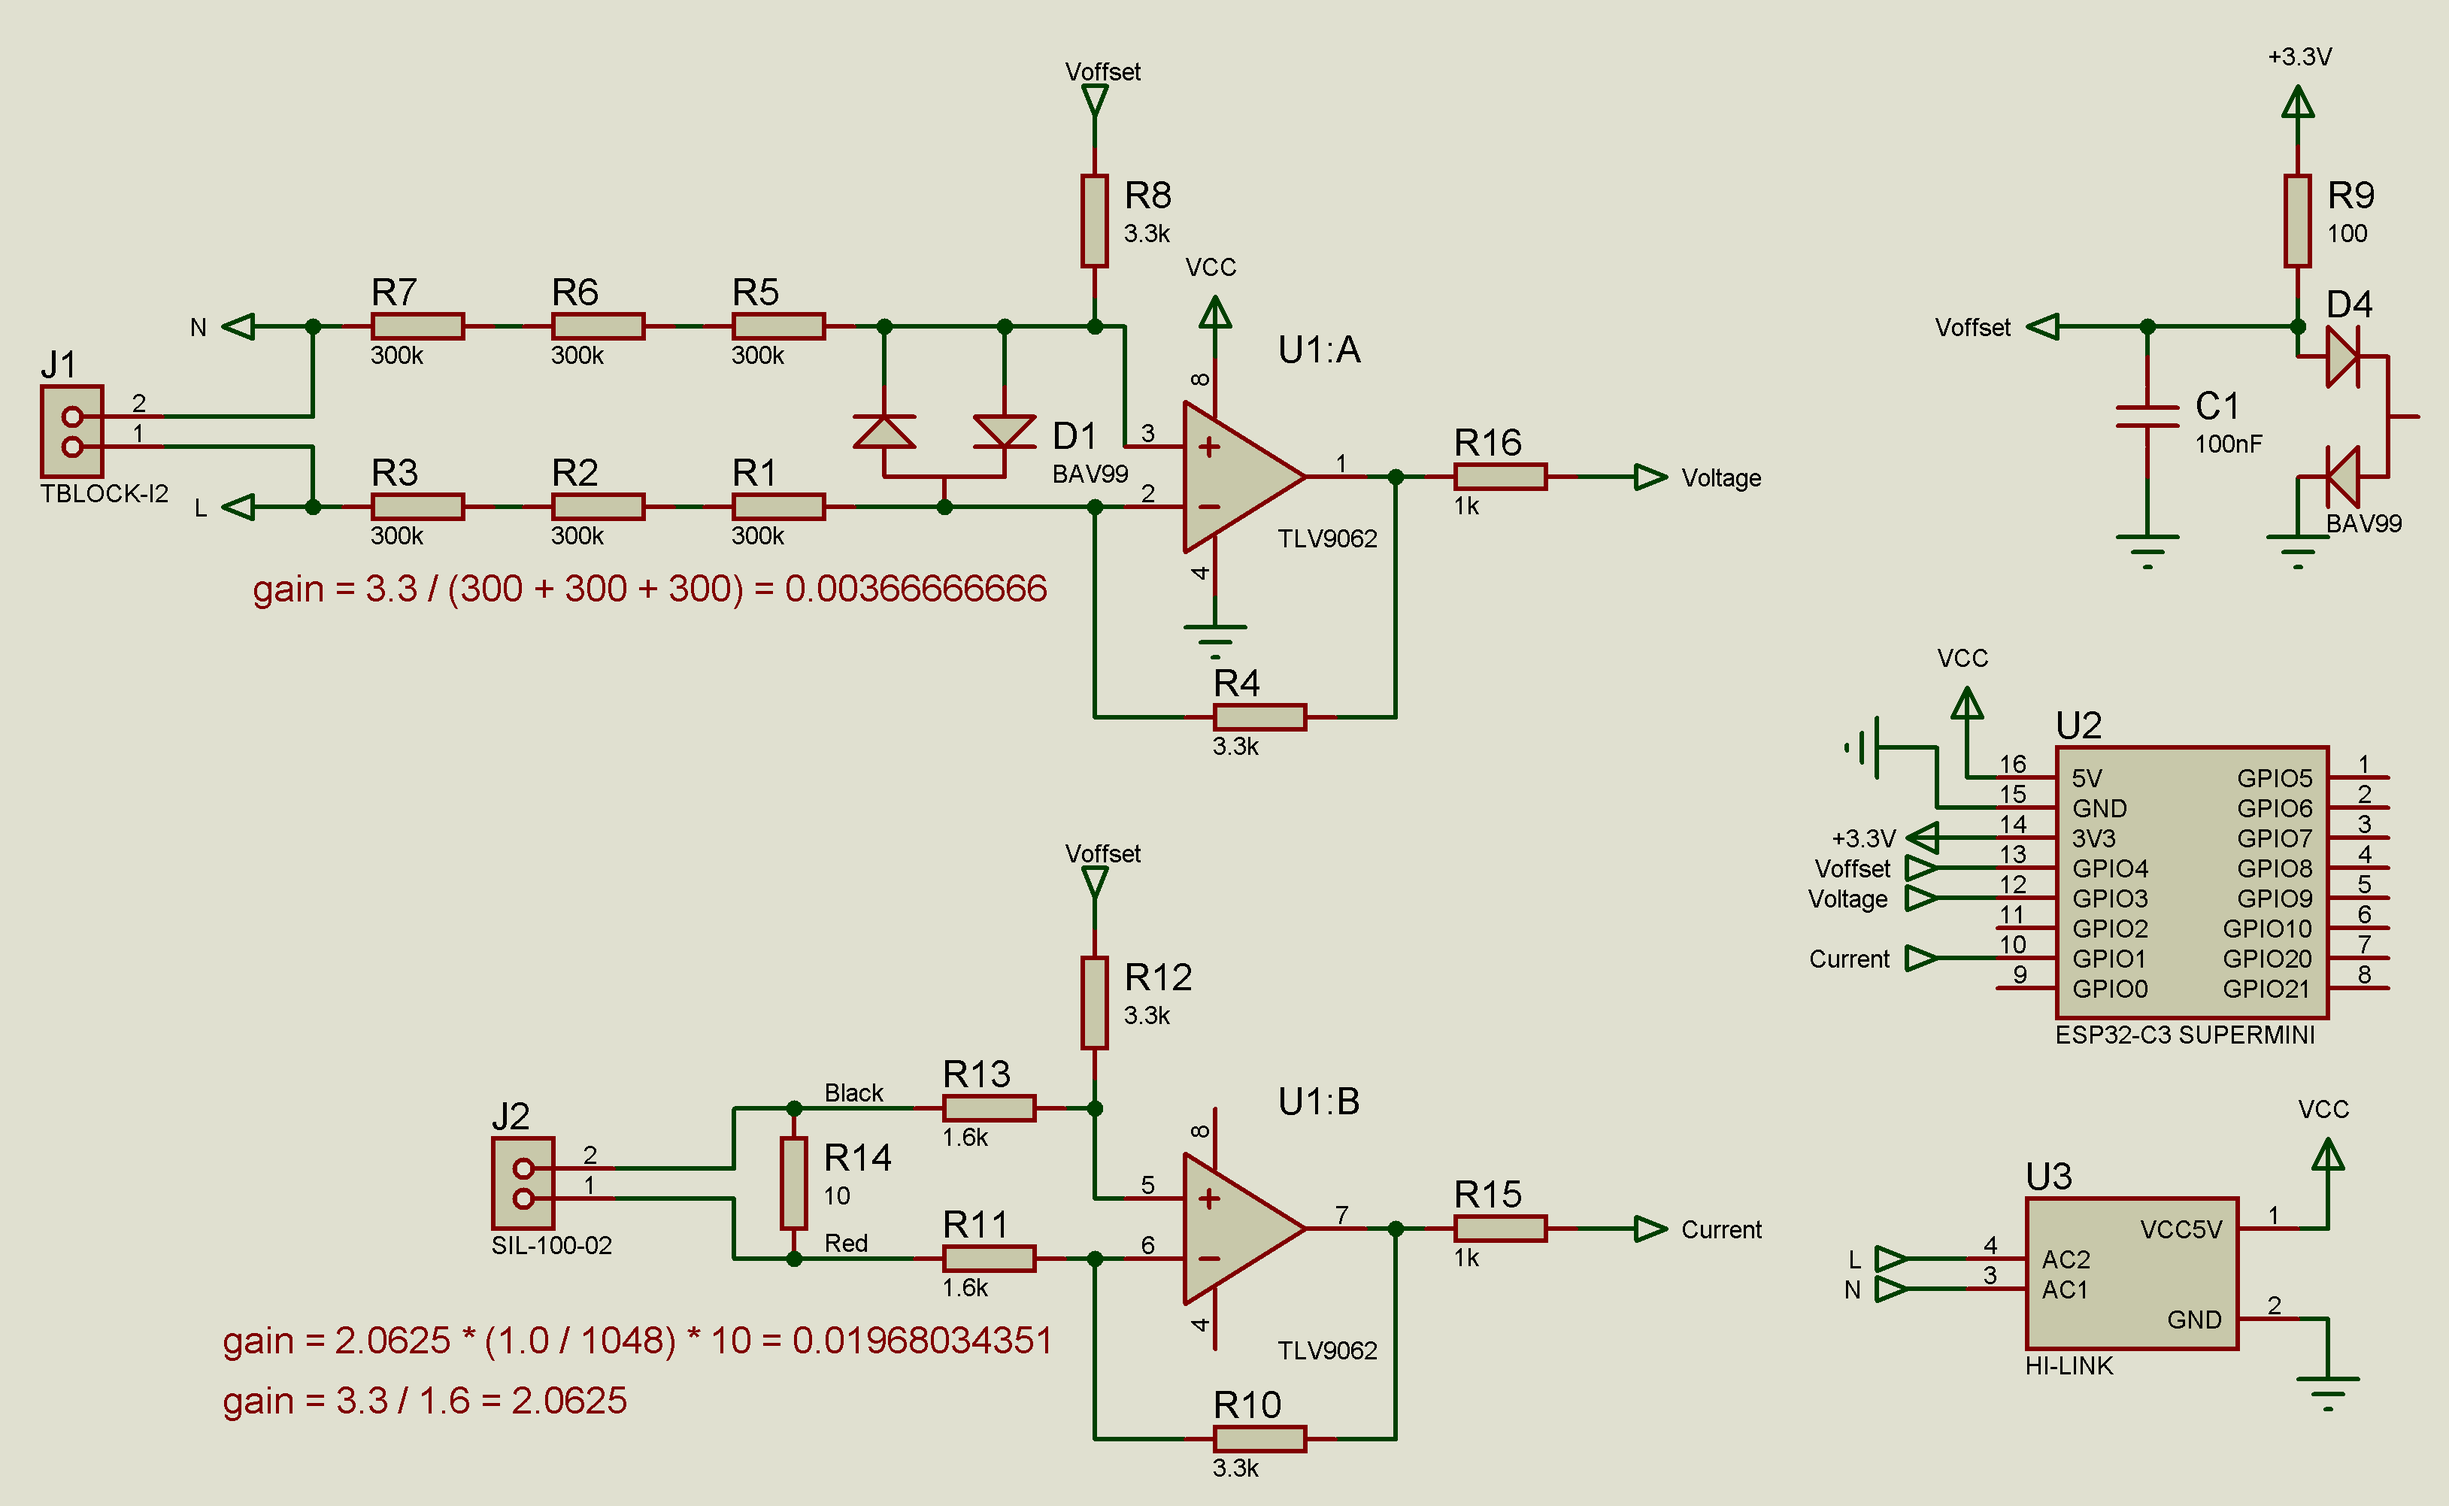
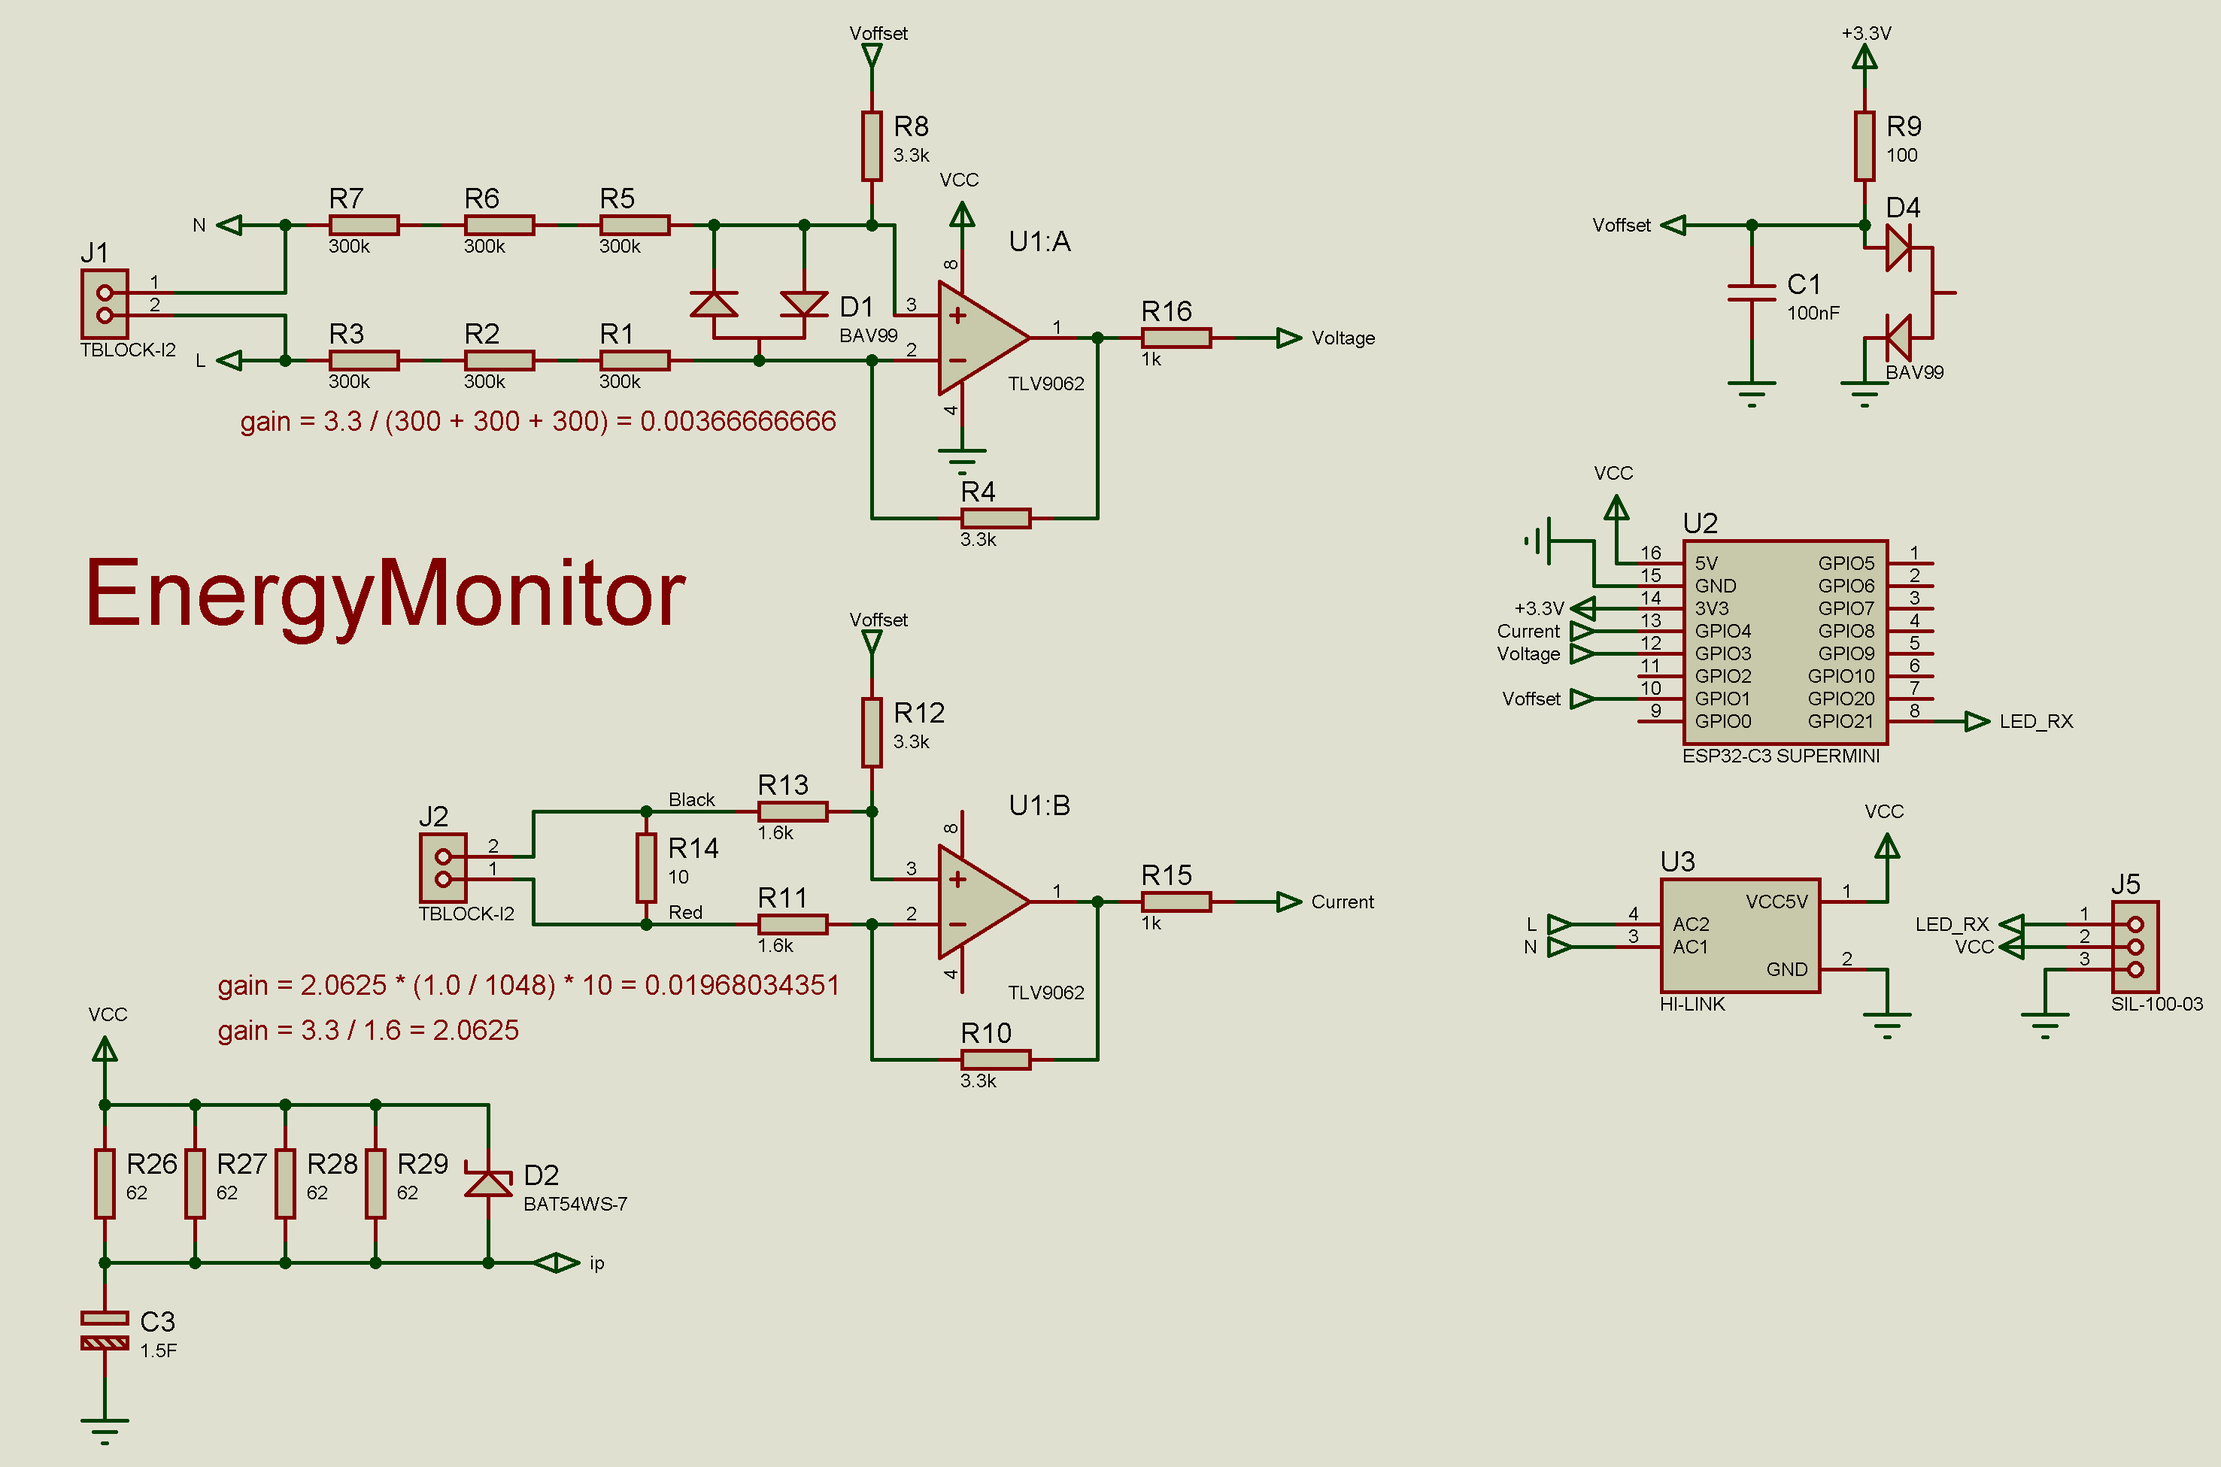
New Schematic

diff --git a/src/EnergyMonitor.cpp b/src/EnergyMonitor.cpp
@@ -1,6 +1,7 @@
 #include <Arduino.h>
 #include <ArduinoOTA.h>
 #include <Ticker.h>
+#include <HardwareSerial.h>
 
 #include "MQTT.h"
 #include "Config.h"
@@ -9,36 +10,90 @@
 
 Ticker ticker;
 ApSettingsManager apManager;
+HardwareSerial IndicatorSerial(1);
+
+// (a b c d e f g .dp)
+const uint8_t seg_patterns[10] = {
+  0b0111111,   // 0   0b00111111 - a=bit0, g=bit6
+  0b0000110,   // 1
+  0b1011011,   // 2
+  0b1001111,   // 3
+  0b1100110,   // 4
+  0b1101101,   // 5
+  0b1111101,   // 6
+  0b0000111,   // 7
+  0b1111111,   // 8
+  0b1101111    // 9
+};
+
+const uint8_t dp_mask = 0b10000000;
+
+void clearDisplay() {
+    uint8_t display[9] = {0};
+    IndicatorSerial.write(display, 9);
+}
+
+void formatTo3Digits(float value, uint8_t* out, bool show_unit = true) {
+    String str = String(value, 2);
+
+    int idx = 0;
+    for (int i = 0; i < str.length() && idx < 3; i++) {
+        char c = str[i];
+
+        if (c >= '0' && c <= '9') {
+            out[idx++] = seg_patterns[c - '0'];
+        } else if (c == '.') {
+            out[idx - 1] |= dp_mask;
+        }
+    }
+
+    if(show_unit) {
+        out[2] |= dp_mask;
+    }
+}
 
 void updateState() {
-    // Измеряем мощность
+    static int calls = 0;
+
     if (PowerMeter::measure(
         apManager.getParameter("voltageCoeff").toFloat(),
         apManager.getParameter("currentCoeff").toFloat()
     )) {
-        String state_topic = Config::getMqttPrefix() + "state";
-        String payload = "{\"v_rms\":" + String(PowerMeter::getVrms(), 1) +
-                        ",\"i_rms\":" + String(PowerMeter::getIrms(), 2) +
-                        ",\"power\":" + String(PowerMeter::getP(), 0) +
-                        ",\"cos_phi\":" + String(PowerMeter::getCosPhi(), 3) +
-                        ",\"frequency\":" + String(PowerMeter::getFrequency(), 1) + "}";
-        MQTT::publish(state_topic.c_str(), payload.c_str());
+        if (calls++ >= 5) {
+            calls = 0;
+            String state_topic = Config::getMqttPrefix() + "state";
+            String payload = "{\"v_rms\":" + String(PowerMeter::getVrms(), 1) +
+                            ",\"i_rms\":" + String(PowerMeter::getIrms(), 2) +
+                            ",\"power\":" + String(PowerMeter::getPower(), 0) +
+                            ",\"cos_phi\":" + String(PowerMeter::getCosPhi(), 3) +
+                            ",\"frequency\":" + String(PowerMeter::getFrequency(), 1) + "}";
 
-        payload = "{\"Voltage\":" + String(PowerMeter::getVrms(), 1) +
+            MQTT::publish(state_topic.c_str(), payload.c_str());
+        }
+
+        String json = "{\"Voltage\":" + String(PowerMeter::getVrms(), 1) +
                 ",\"Current\":" + String(PowerMeter::getIrms(), 2) +
-                ",\"Power\":" + String(PowerMeter::getP(), 0) +
+                ",\"Power\":" + String(PowerMeter::getPower(), 0) +
                 ",\"cos_phi\":" + String(PowerMeter::getCosPhi(), 3) +
                 ",\"frequency\":" + String(PowerMeter::getFrequency(), 1) + "}";
 
-        apManager.setLogJson(payload);
+        apManager.setLogJson(json);
+
+        uint8_t display[9] = {0};
+        formatTo3Digits(PowerMeter::getVrms(), &display[0]);
+        formatTo3Digits(PowerMeter::getIrms(), &display[3]);
+        formatTo3Digits(PowerMeter::getPower() / 1000.0, &display[6], false);
+
+        IndicatorSerial.write(display, 9);
     } else {
-        // Ошибка измерения
         Serial.println("Измерение не выполнено!");
     }
 }
 
 void setup() {
     Serial.begin(115200);
+    IndicatorSerial.begin(9600, SERIAL_8N1, -1, 21);
+    clearDisplay();
 
     String customParameters = R"([{
         "title": "Настройки MQTT",
@@ -67,7 +122,8 @@ void setup() {
 
     ArduinoOTA.setHostname(Config::getDeviceName().c_str());
     ArduinoOTA.begin();
-    ticker.attach(5, updateState);
+    ticker.attach(1, updateState);
+    updateState();
 }
 
 void loop() {

diff --git a/src/PowerMeter.cpp b/src/PowerMeter.cpp
@@ -9,9 +9,9 @@ static const char *TAG = "PowerMeter";
 
 // Инициализация статических членов
 const adc1_channel_t PowerMeter::channels[PowerMeter::ADC_CHANNELS] = {
-    ADC1_CHANNEL_1, // GPIO2 (ток)
+    ADC1_CHANNEL_4, // GPIO4 (ток)
     ADC1_CHANNEL_3, // GPIO3 (напряжение)
-    ADC1_CHANNEL_4  // GPIO4 (смещение)
+    ADC1_CHANNEL_1  // GPIO2 (смещение)
 };
 
 float PowerMeter::v_rms = 0.0f;
@@ -176,8 +176,12 @@ bool PowerMeter::measure(float voltageCalibrationFactor, float currentCalibratio
         prev_voltage = voltage;
     }
 
-    frequency = ((periods - 1) * ADC_FREQ) / ((float)(last_cross_index - first_cross_index));
-
+    if(periods >= 2) {
+        frequency = ((periods - 1) * ADC_FREQ) / ((float)(last_cross_index - first_cross_index));
+    } else {
+        frequency = 0;
+    }
+    
     // Расчёт RMS и cos(phi)
     v_rms = std::sqrt(sum_V / ADC_SAMPLES);
     i_rms = std::sqrt(sum_I / ADC_SAMPLES);

diff --git a/src/PowerMeter.h b/src/PowerMeter.h
@@ -12,7 +12,7 @@ public:
     // Геттеры для измеренных значений
     static float getVrms() { return v_rms; }
     static float getIrms() { return i_rms; }
-    static float getP() { return p; }
+    static float getPower() { return p; }
     static float getCosPhi() { return cos_phi; }
     static float getFrequency() { return frequency; }
 
